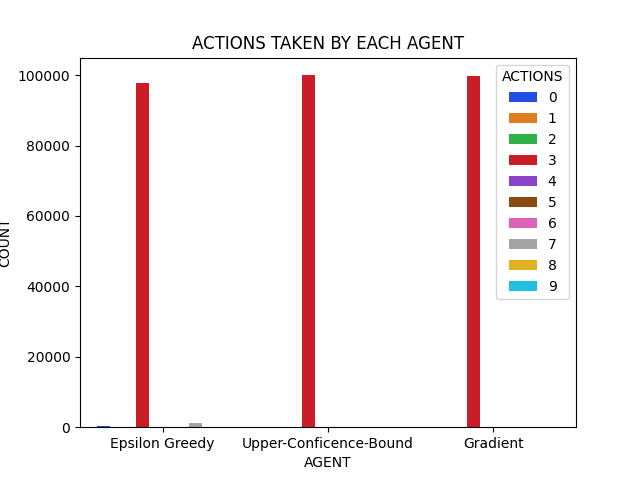
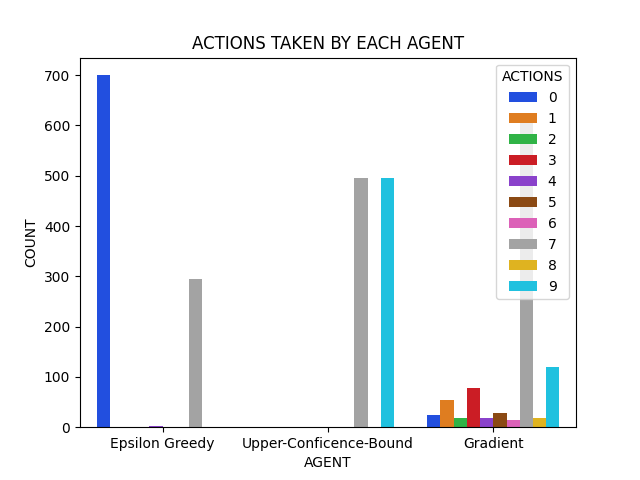
Atualizando os exercicios

diff --git a/projects/k_armed_bandit/__init__.py b/projects/k_armed_bandit/__init__.py
@@ -16,8 +16,8 @@ class Project(ProjectAbstractClass):
     def __init__(self):
         ACTIONS_NUMBER = 10
 
-        mean = 0
-        std = 10
+        mean = 5
+        std = 5
 
         self.rewards = [
             np.random.normal(mean,std,1).item() for _ in range(ACTIONS_NUMBER)
@@ -31,7 +31,7 @@ class Project(ProjectAbstractClass):
             GradientAgent(ACTIONS_NUMBER, .01)
         ]
 
-        self.EPOCHS = 100000
+        self.EPOCHS = 1000
     
     def get_reward(self, action: int):
         """Gets the reward desired for the given action
